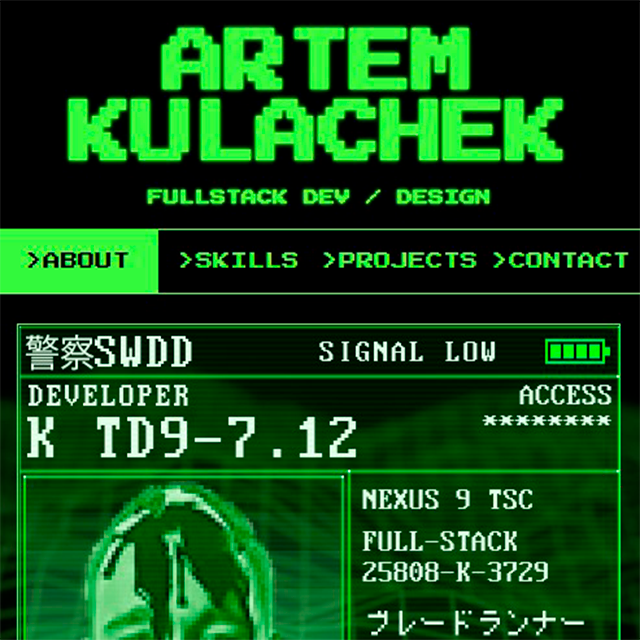
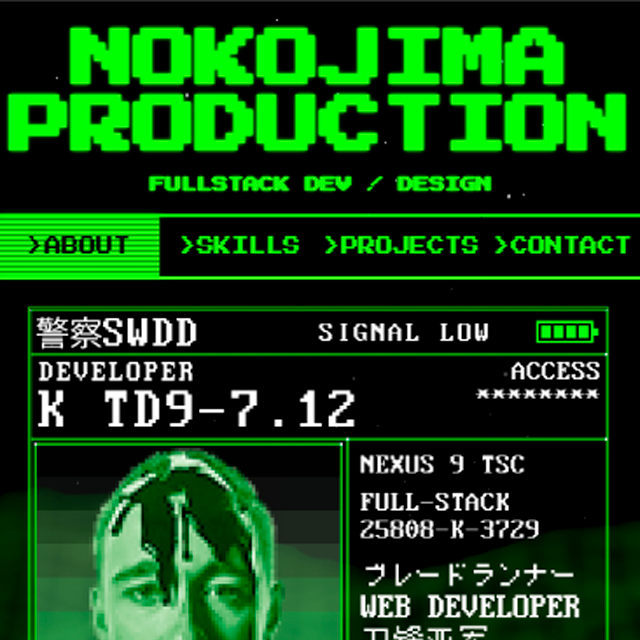
working at angles

diff --git a/src/js/script.js b/src/js/script.js
@@ -337,55 +337,31 @@ cmdInput.addEventListener('keydown', e=>{
 
 const demoProjects = [
   {
-    title: 'Retro Portfolio',
-    line : 'Are you saw this before?',
+    title: 'Flexboxer.com',
+    line : '"CRT" style portfolio landing',
     img  : 'assets/img/card_retro_portfolio.png',   // GIF или PNG / JPG
-    git  : 'https://github.com/you/retro-portfolio',
-    link : 'https://you.com/retro'
+    git  : 'https://github.com/GuiltyAlltheSame/portfolio-site',
+    link : 'https://flexboxer.com/'
   },
   {
     title: 'Spiza.com',
-    line : 'Handmade toys market',
+    line : 'Knited toys shop',
     img  : 'assets/img/question.png',  // обычная картинка
     hover: 'assets/img/white-noise.gif',
     git  : 'https://github.com/you/react-blog',
     link : 'https://blog.you.com'
   },
   {
-    title: '???',
-    line : 'test3',
+    title: 'Cinemorph',
+    line : 'Cinema prod portfolio landing',
     img  : 'assets/img/question.png',
     hover: 'assets/img/white-noise.gif',
-    git  : 'https://github.com/you/node-api',
+    git  : 'https://github.com/GuiltyAlltheSame/cinemorph-site',
     link : '#'                           // нет демо — оставляем «#»
   },
    {
     title: '???',
-    line : 'test4',
-    img  : 'assets/img/question.png',
-    hover: 'assets/img/white-noise.gif',
-    git  : 'https://github.com/you/node-api',
-    link : '#'                           // нет демо — оставляем «#»
-  },
-   {
-    title: '???',
-    line : 'test5',
-    img  : 'assets/img/question.png',
-    hover: 'assets/img/white-noise.gif',
-    git  : 'https://github.com/you/node-api',
-    link : '#'                           // нет демо — оставляем «#»
-  },
-  {
-    title: '???',
-    line : 'test6',
-    img  : 'assets/img/question.png',
-    hover: 'assets/img/white-noise.gif',
-    git  : 'https://github.com/you/node-api',
-    link : '#'                           // нет демо — оставляем «#»
-  },
-  {
-    title: '???',
-    line : 'test7',
+    line : '???',
     img  : 'assets/img/question.png',
     hover: 'assets/img/white-noise.gif',
     git  : 'https://github.com/you/node-api',

diff --git a/src/index.html b/src/index.html
@@ -23,8 +23,8 @@
 <!-- Hello window with resume button -->
   <div class="crt">
     <header>
-      <h1 class="huge">FLEXDOGZ</h1>
-      <h1 class="huge" style="margin-top:3px;">CORPORATION</h1>
+      <h1 class="huge">NOKOJIMA</h1>
+      <h1 class="huge" style="margin-top:3px;">PRODUCTION</h1>
       <p>FULLSTACK DEV / DESIGN</p>
     </header>
   </div>
@@ -70,7 +70,10 @@
       <h2 class="headline">/.spk: RUS/ENG</h2>
       <h3  class="subhead">Web dev / Designer / photographer / editor / blade runner / Full-Stack Ninja</h3>
       <hr class="about-sep" />
-      <p class="tagline">Welcome to my humble corner of the web! Here you’ll find my projects, tech stack, a bit about me, and all the ways to get in touch. Browse around, click away, and drop me a line.</p>
+      <p class="tagline">Flexboxer build web interfaces, systems, and structured solutions.
+Inside — selected projects, stack, and implementation logic.
+Beyond code — interests in technology, photography, and exploration.
+Scan the system and reach out if relevant.</p>
 <!-- Resume button -->   
       <div class="about-button">                     
         <a href="#" class="btn">[ VIEW RESUME ]</a>

diff --git a/src/css/style.css b/src/css/style.css
@@ -362,7 +362,7 @@ header p {
   display: flex;
   flex-direction: column;        /* takes up the remaining space */
   overflow-wrap: anywhere;
-  padding: .9rem 0 0 .9rem;
+  padding: 0px 0 0 .9rem;
 }
 
 /* Typographic */
@@ -407,7 +407,7 @@ header p {
 
 .about-sep {
   border: none;
-  margin: 1rem 0;                 
+  margin: 13px 0;                 
   border-top: 2px solid #8AFF3C;
 }
 
@@ -737,6 +737,7 @@ header p {
   background:#000;
   border:2px solid #8AFF3C;
   font-family:'Press Start 2P', monospace;
+  font-size: 14px;
 }
 
 /* list container: vertical, scrolable */
